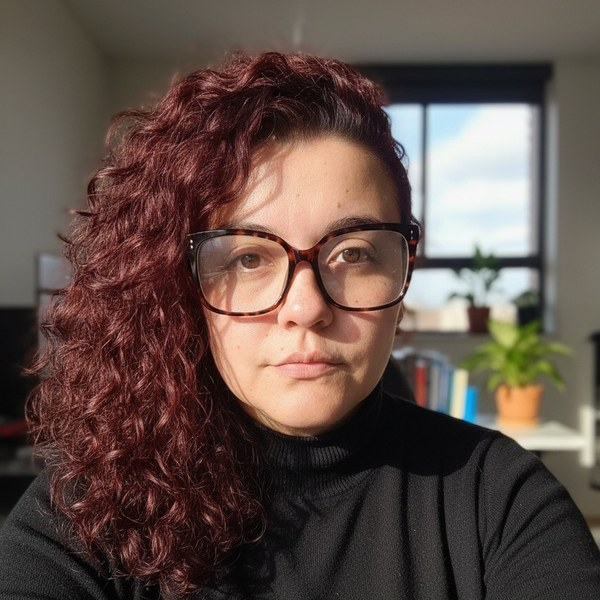
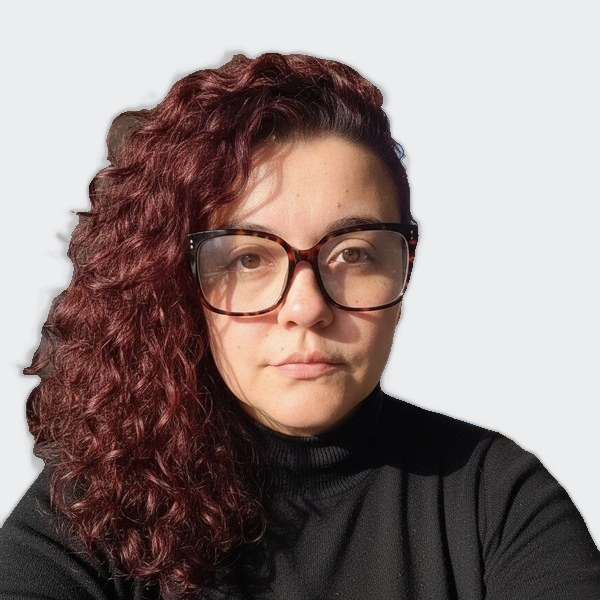
fix(team/careers): editorial arc mask and portrait plate repairs
Careers group photo uses the proven ellipse clip (half-moon) to hide
baked black without jagged edges. Team plates: Caroline/Rodrigo light
neutral cutouts; Larissa/Luciana headroom pads; Esther face-focused crop.

diff --git a/app/globals.css b/app/globals.css
@@ -1655,7 +1655,7 @@ footer .heading-lg,
   height: 100%;
   object-fit: cover;
   object-position: center 40%;
-  filter: grayscale(1) contrast(1.1) brightness(0.97);
+  filter: grayscale(1) contrast(1.08) brightness(1.01);
 }
 .team-photo--rubio .home-leadership-trust__photo,
 .team-photo--rubio-home .home-leadership-trust__photo {
@@ -1678,14 +1678,39 @@ footer .heading-lg,
 }
 .team-photo--maria .team-card-photo,
 .team-photo--maria .home-leadership-trust__photo { object-position: 56% 30%; }
-.team-photo--rodrigo .team-card-photo { object-position: 50% 40%; }
-.team-photo--esther .team-card-photo { object-position: 50% 42%; }
-.team-photo--caroline .team-card-photo { object-position: 50% 40%; }
-.team-photo--larissa .team-card-photo { object-position: 50% 36%; }
+/* Rodrigo: light neutral plate after source equalisation; keep face centred. */
+.team-photo--rodrigo .team-card-photo {
+  object-position: 50% 38%;
+  transform: scale(1.02);
+  transform-origin: center 35%;
+}
+/* Esther: source has excess headroom — zoom into the face without cutting crown. */
+.team-photo--esther .team-card-photo {
+  object-position: 50% 68%;
+  transform: scale(1.28);
+  transform-origin: center 42%;
+}
+/* Caroline: light-plate cutout; keep curls and glasses fully inside the frame. */
+.team-photo--caroline .team-card-photo {
+  object-position: 50% 36%;
+  transform: scale(1.04);
+  transform-origin: center 32%;
+}
+/* Larissa: source crown was tight — padded plate + slight pull-back. */
+.team-photo--larissa .team-card-photo {
+  object-position: 50% 34%;
+  transform: scale(0.96);
+  transform-origin: center 30%;
+}
 .team-photo--milla .team-card-photo { object-position: 50% 40%; }
 .team-photo--bianca .team-card-photo { object-position: 50% 40%; }
 .team-photo--claudia .team-card-photo { object-position: 49% 40%; }
-.team-photo--luciana .team-card-photo { object-position: 50% 38%; }
+/* Luciana: source crown flat-cut — padded headroom + mild pull-back. */
+.team-photo--luciana .team-card-photo {
+  object-position: 50% 36%;
+  transform: scale(0.96);
+  transform-origin: center 30%;
+}
 .team-photo--daniel .team-card-photo { object-position: 50% 38%; }
 .team-grid--commercial {
   max-width: 20rem;
@@ -1745,6 +1770,48 @@ footer .heading-lg,
   display: block;
   width: 100%;
   height: auto;
+}
+
+/* Careers editorial group photo — antialiased half-moon / upper arc.
+   Same ellipse geometry proven on About: clips just inside the baked black
+   dome of /team-group.jpg. No AI cutout; no rectangular black plate. */
+.careers-editorial {
+  margin-top: 8px;
+}
+.careers-editorial__figure {
+  position: relative;
+  margin: 0 auto;
+  max-width: 920px;
+  aspect-ratio: 1024 / 555;
+  background: transparent;
+  /* Soft premium lift without a rectangular black plate. */
+  filter: drop-shadow(0 18px 36px rgba(11, 18, 32, 0.12));
+  /* Baked edge ≈ circle r~520 at (511.5, 510). Clip at 50%/92.25% stays inside. */
+  clip-path: ellipse(50% 92.25% at 50% 91.9%);
+}
+.careers-editorial__img {
+  display: block;
+  width: 100%;
+  height: 100%;
+  object-fit: cover;
+  object-position: 50% 50%;
+  filter: grayscale(1) contrast(1.04);
+}
+.careers-editorial__fade {
+  position: absolute;
+  inset: 0;
+  pointer-events: none;
+  background: linear-gradient(
+    to top,
+    rgba(11, 18, 32, 0.3) 0%,
+    rgba(11, 18, 32, 0.11) 26%,
+    rgba(11, 18, 32, 0) 52%
+  );
+}
+@media (max-width: 768px) {
+  .careers-editorial__figure {
+    max-width: 100%;
+  }
 }
 
 @media (max-width: 768px) {

diff --git a/app/careers/page.tsx b/app/careers/page.tsx
@@ -35,8 +35,22 @@ export default function CareersPage() {
       <section className="bg-background py-24 md:py-32">
         <div className="max-w-7xl mx-auto w-full px-4 sm:px-6 lg:px-8" style={{ maxWidth: "1000px" }}>
           <span className="label">Life at Octus</span>
-          <div className="careers-culture-visual">
-            <img src="/team-group.jpg" alt="Octus team culture" className="careers-culture-image" />
+          {/*
+            Editorial group photograph. Source /team-group.jpg has a baked black
+            field around a dome. Shape is resolved with an antialiased ellipse
+            clip (same geometry as About), not a rectangular black tile. No AI
+            cutout of people; no face editing.
+          */}
+          <div className="careers-editorial">
+            <figure className="careers-editorial__figure">
+              {/* eslint-disable-next-line @next/next/no-img-element */}
+              <img
+                src="/team-group.jpg"
+                alt="Octus team culture"
+                className="careers-editorial__img"
+              />
+              <span className="careers-editorial__fade" aria-hidden="true" />
+            </figure>
           </div>
         </div>
       </section>
